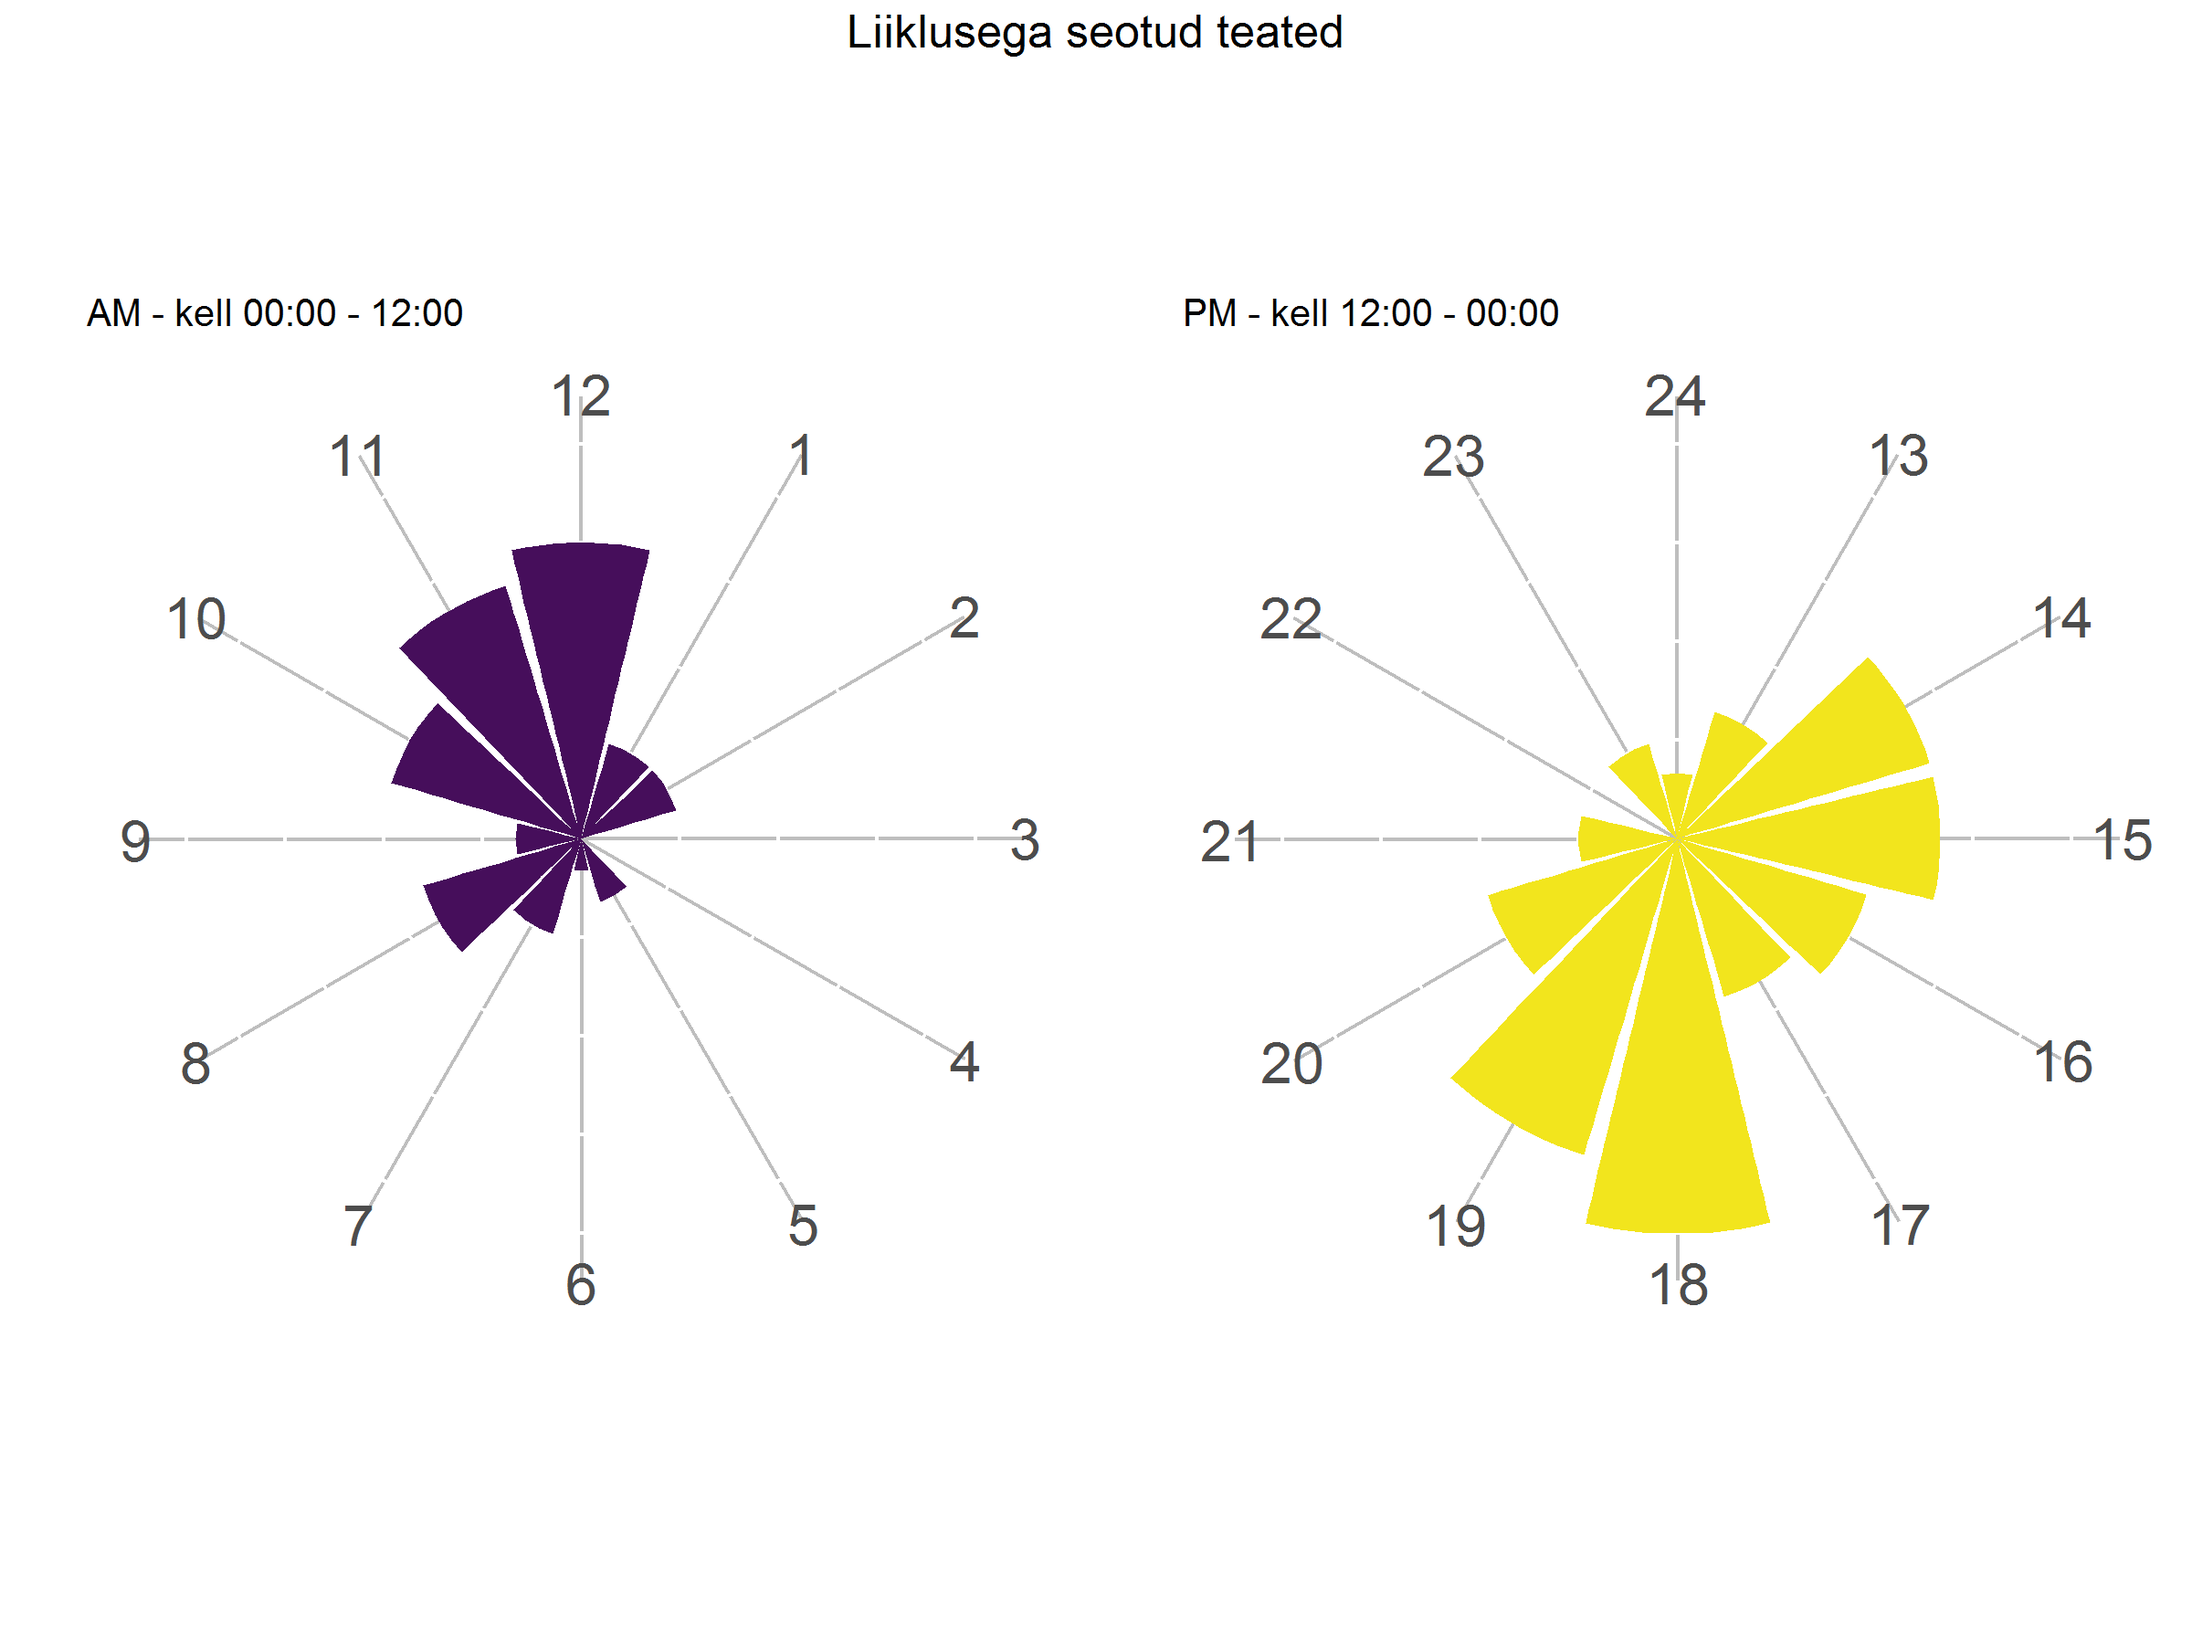
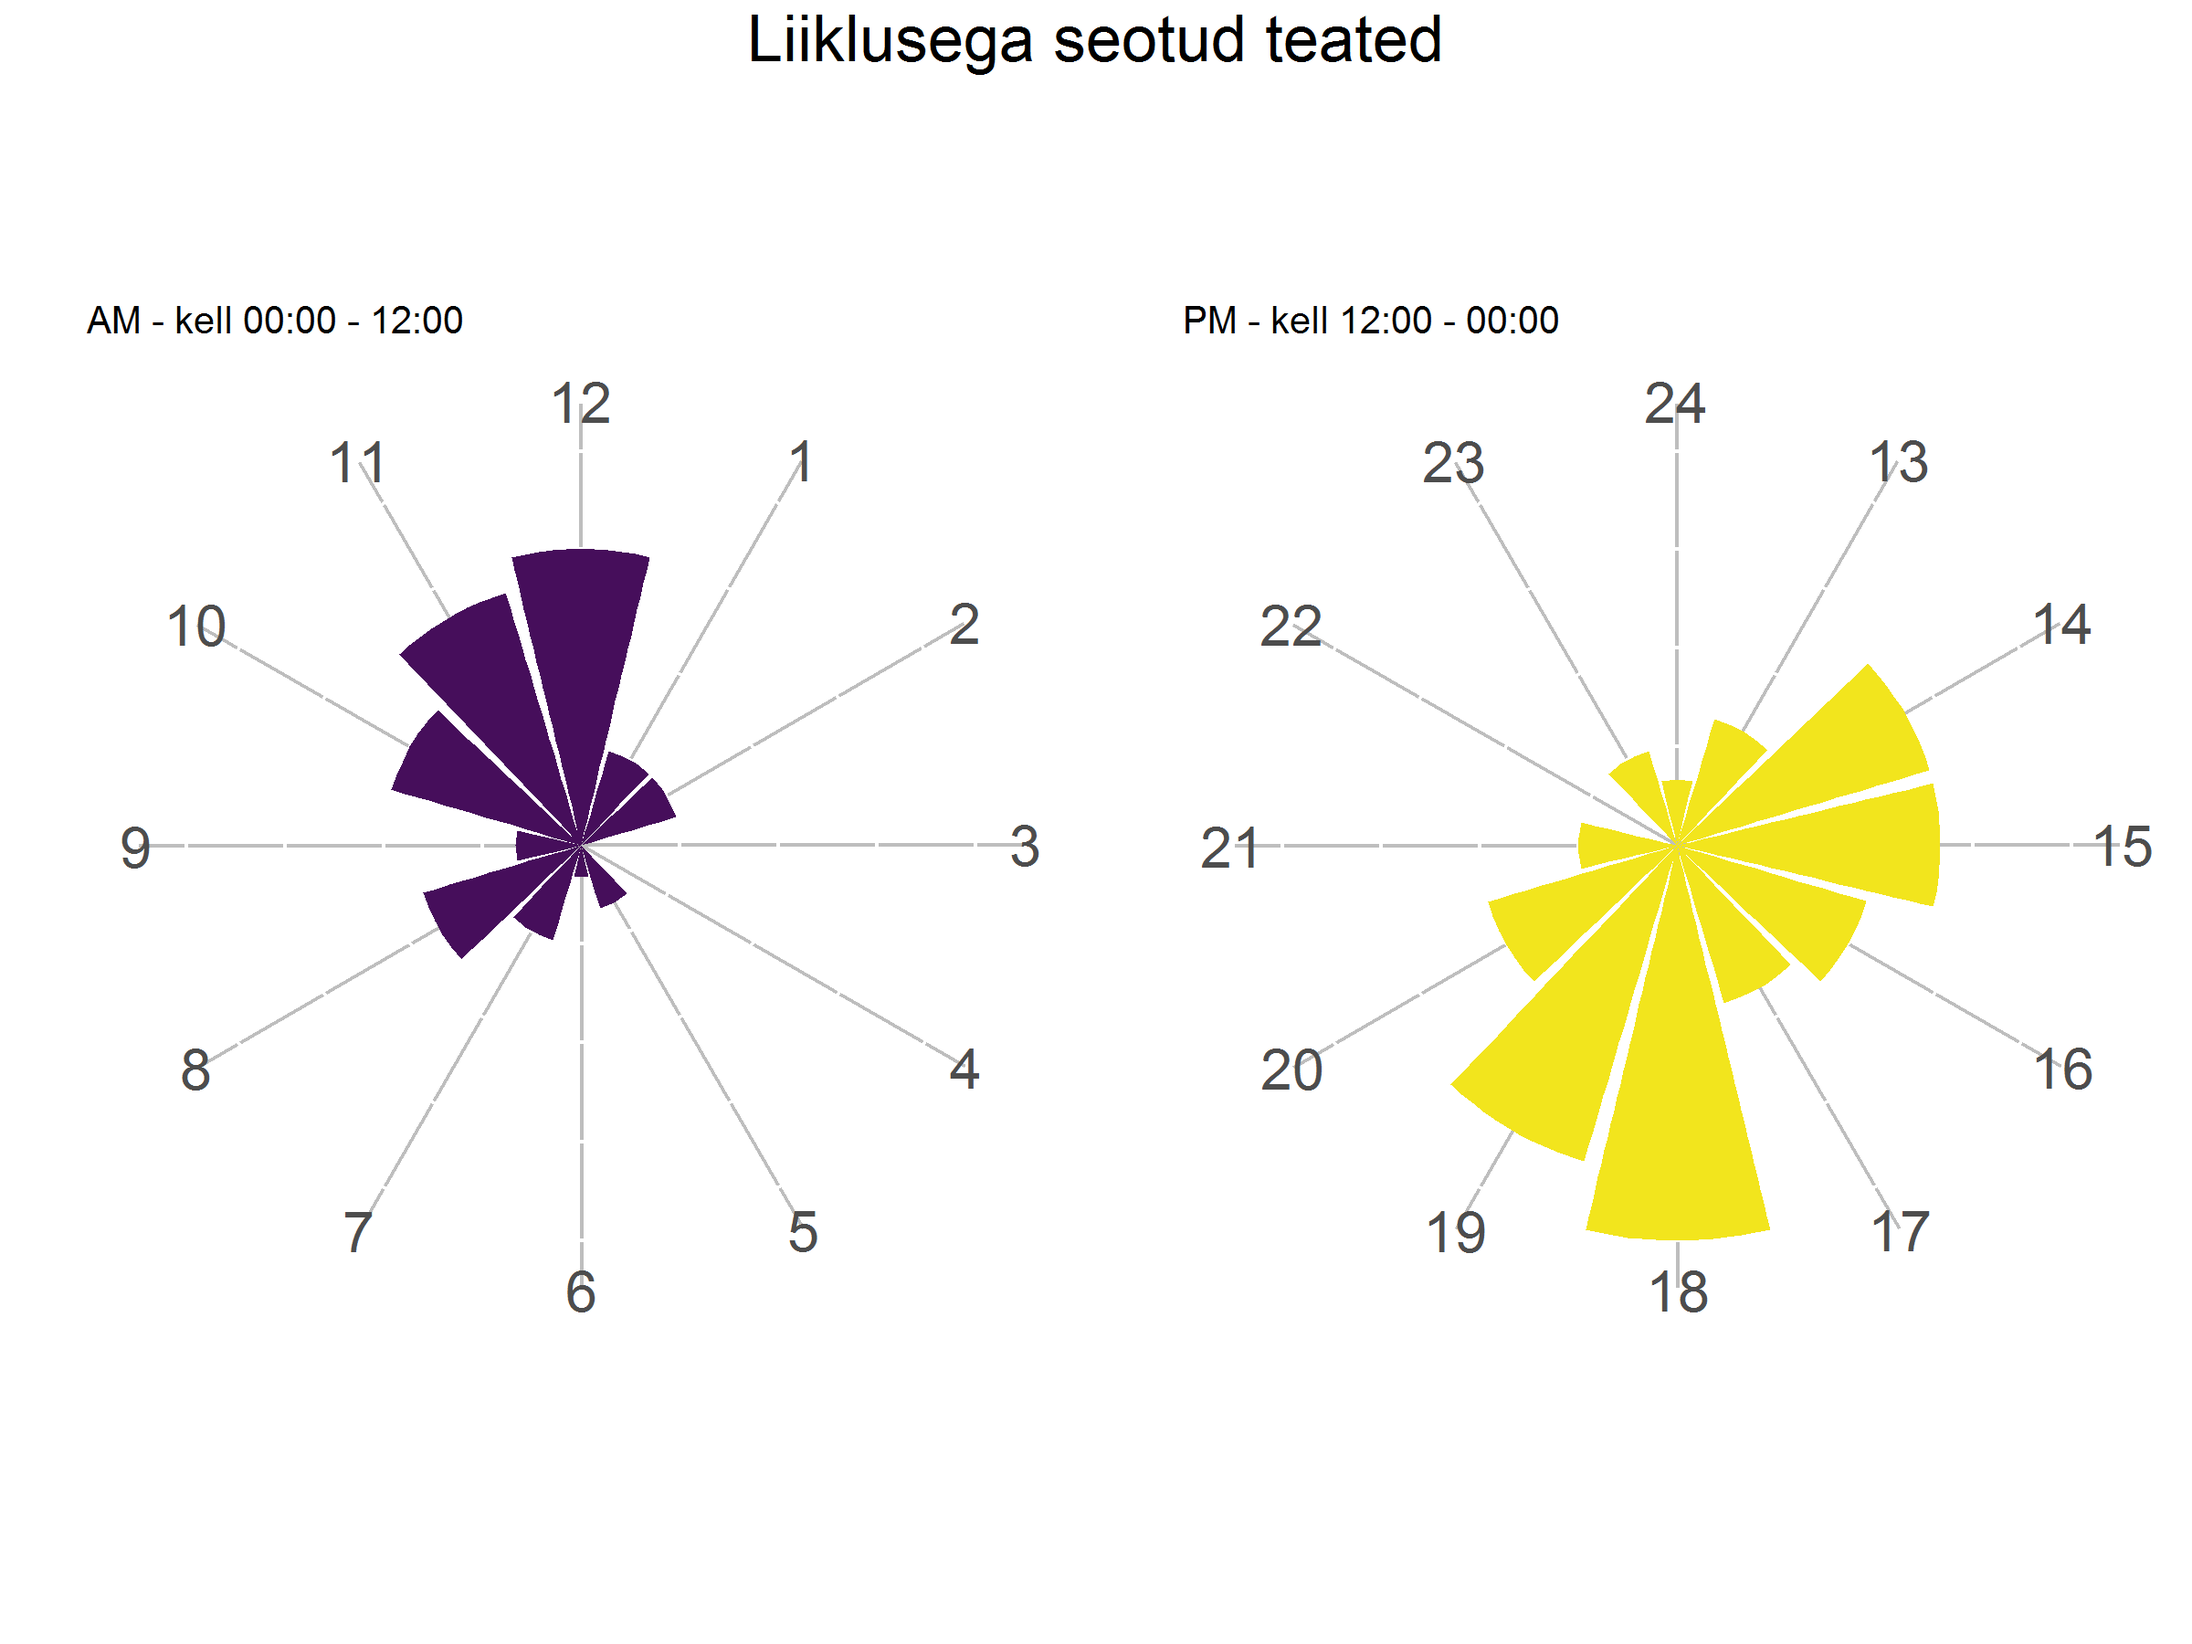
teksti ja graafikute täiendamine

diff --git a/_posts/2016-06-19-politsei-teated.md b/_posts/2016-06-19-politsei-teated.md
@@ -13,12 +13,18 @@ layout: post
 
 Ühel talvisel reedel vastu laupäeva (04.03.2016 - 05.03.2016) viis Politsei läbi aktsiooni, mille käigus postitati 24 tunni jooksul Facebooki infot numbrile 112 tulnud väljakutsete kohta. Kokku laekus selle aja jooksul __668__ teadet, mis annavad päris hea ülevaate sellest, kuidas paistab elu Eestimaal läbi politsei silmade.
 
-Proovin läbi erinevate graafiku tüüpide teadetes olevat infot pisut visualiseerida. Alustuseks üks animatsioon, mis kujutab tundide lõikes teadete arvu. Tumedamat tooni postid kujutavad öötunde ning heledamad päevast aega. Maksimaalselt laekus teateid ühe tunni jooksul õhtul kella 19 ajal (__43__). Huvitava kokkusattumusena saabus kõige vähem teateid aga hommikul kell 7 (__11__).
+Proovin läbi erinevate graafiku tüüpide teadetes olevat infot pisut visualiseerida. Alustuseks üks animatsioon, mis kujutab tundide lõikes teadete arvu. Tumedamat tooni postid kujutavad öötunde ning heledamad päevast aega. Maksimaalselt laekus teateid ühe tunni jooksul õhtul kella 19 ajal (__43 väljakutset__). Huvitava kokkusattumusena saabus kõige vähem teateid aga hommikul kell 7 (__11 väljakutset__).
 
 ![Kõned kokku päeva jooksul](http://toomase.github.io/img/politsei-teated-koned.gif)
 
+Kui vaadata detailsemalt liiklusega seotud väljakutseid, siis oodatult on palju kõnesid tipptunnil pärast tööd, kell 18.00 - 20.00. Samas üllatavalt vähe on teateid hommmikusel tipptunnnil ning suurema arvu väljakutsetega paistab pigem silma lõuna aeg.
 
 <img src="{{ site.url }}/img/politsei-teated-liikluse_teated-1.png" style="display: block; margin: auto;" />
+
+Kõige rohkem laekus numbrile 112 joobes inimestega seotud teated, 24H jooksul __211 teadet__. Suuruselt järgmise valdkonna, liiklusega, oli pea poole vähem kõnesid. Reede õhtule kohaselt saavutab teadete arv oma kõrgpunkti kella 20.00-st ja hakkab vähenema alles öösel 03.00 ajal.
+
+<img src="{{ site.url }}/img/politsei-teated-joobes_inimene_teated-1.png" style="display: block; margin: auto;" />
+
 
 
 Interaktiivne graafik
